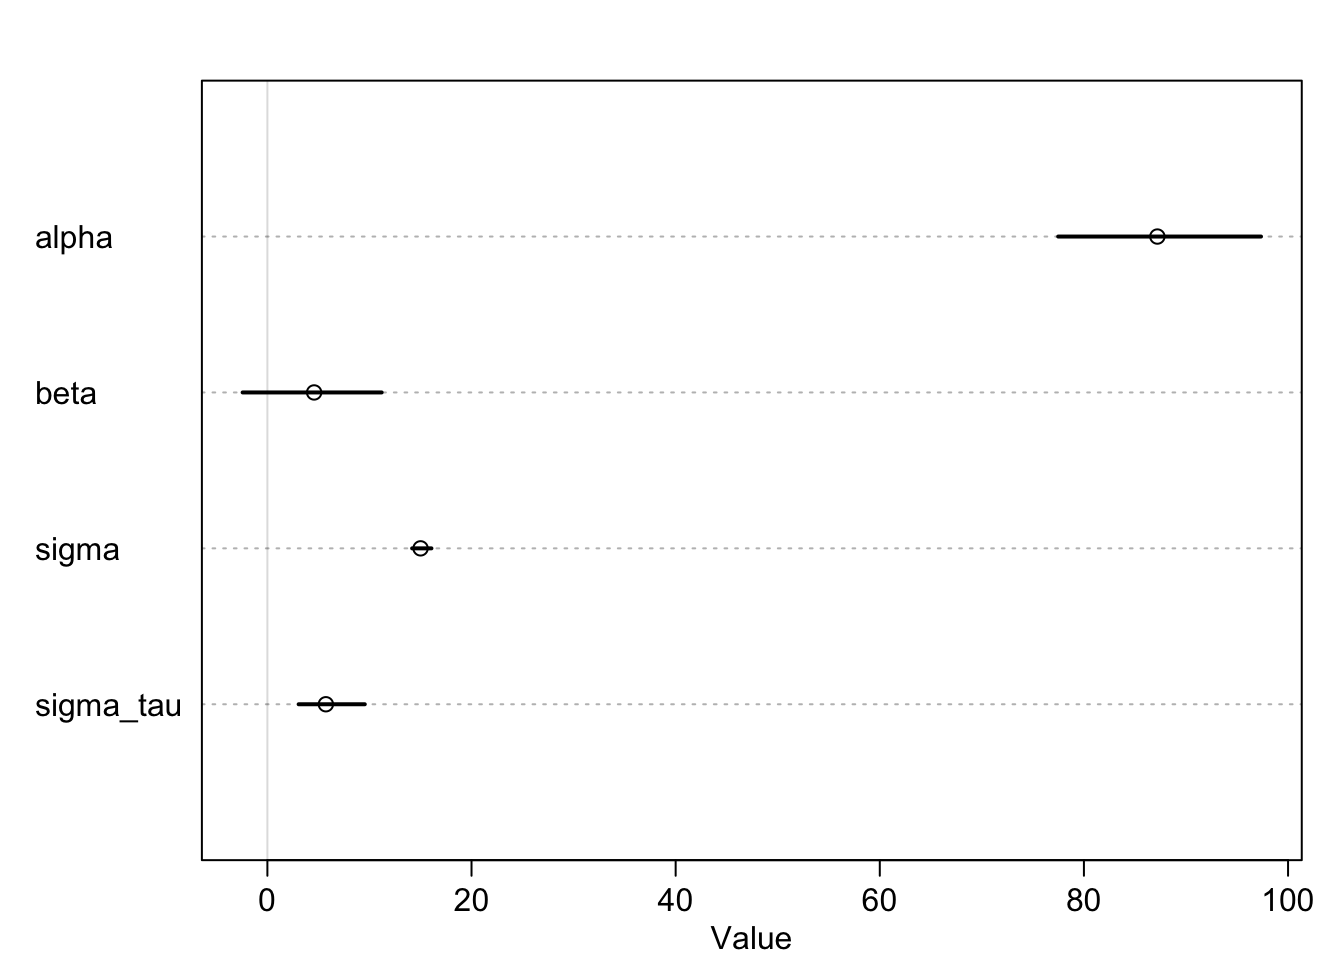
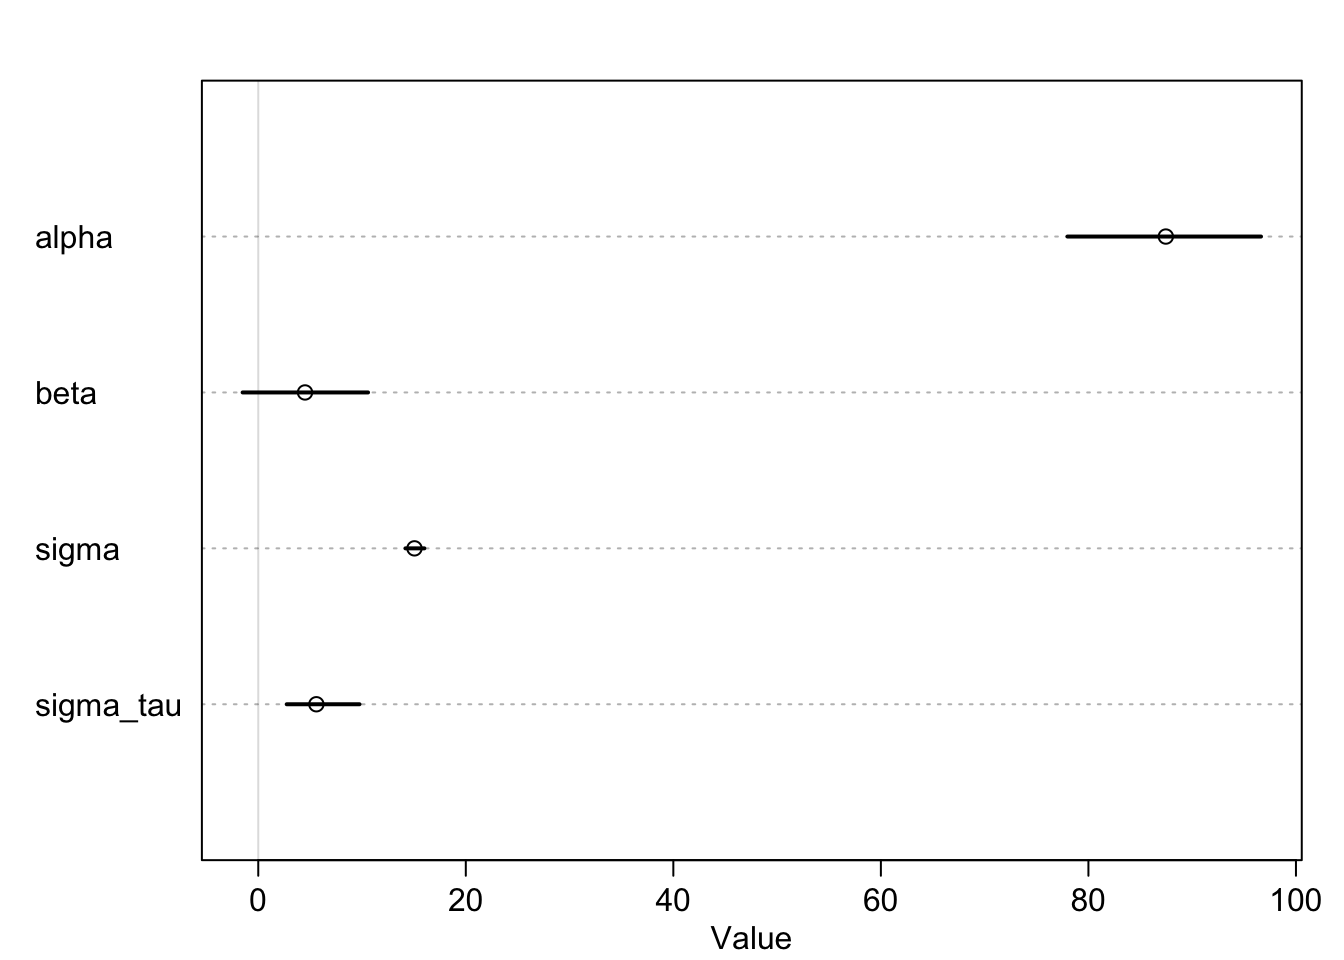
Match `ulam()` `chains` and `iter` param values to those of `brm()`

diff --git a/index.html b/index.html
@@ -417,7 +417,7 @@ window.Quarto = {
 \end{align*}
 \]</span></p>
 <div class="cell">
-<div class="sourceCode cell-code" id="cb9"><pre class="sourceCode r code-with-copy"><code class="sourceCode r"><span id="cb9-1"><a href="#cb9-1" aria-hidden="true" tabindex="-1"></a>fit <span class="ot">&lt;-</span> <span class="fu">ulam</span>(</span>
+<div class="sourceCode cell-code" id="cb9"><pre class="sourceCode r code-with-copy"><code class="sourceCode r"><span id="cb9-1"><a href="#cb9-1" aria-hidden="true" tabindex="-1"></a>fit.ulam <span class="ot">&lt;-</span> <span class="fu">ulam</span>(</span>
 <span id="cb9-2"><a href="#cb9-2" aria-hidden="true" tabindex="-1"></a>  <span class="fu">alist</span>(</span>
 <span id="cb9-3"><a href="#cb9-3" aria-hidden="true" tabindex="-1"></a>    somasize <span class="sc">~</span> <span class="fu">normal</span>(mu, sigma),</span>
 <span id="cb9-4"><a href="#cb9-4" aria-hidden="true" tabindex="-1"></a>    mu <span class="ot">&lt;-</span>  alpha <span class="sc">+</span> beta <span class="sc">*</span> fa <span class="sc">+</span> tau[mouseid],</span>
@@ -426,37 +426,124 @@ window.Quarto = {
 <span id="cb9-7"><a href="#cb9-7" aria-hidden="true" tabindex="-1"></a>    beta <span class="sc">~</span> <span class="fu">normal</span>(<span class="dv">0</span>, <span class="dv">20</span>),</span>
 <span id="cb9-8"><a href="#cb9-8" aria-hidden="true" tabindex="-1"></a>    sigma <span class="sc">~</span> <span class="fu">student_t</span>(<span class="dv">3</span>, <span class="dv">0</span>, <span class="dv">15</span>),</span>
 <span id="cb9-9"><a href="#cb9-9" aria-hidden="true" tabindex="-1"></a>    sigma_tau <span class="sc">~</span> <span class="fu">student_t</span>(<span class="dv">3</span>, <span class="dv">0</span>, <span class="dv">15</span>)),</span>
-<span id="cb9-10"><a href="#cb9-10" aria-hidden="true" tabindex="-1"></a>  <span class="at">data =</span> d)</span></code><button title="Copy to Clipboard" class="code-copy-button"><i class="bi"></i></button></pre></div>
+<span id="cb9-10"><a href="#cb9-10" aria-hidden="true" tabindex="-1"></a>  <span class="at">data =</span> d, <span class="at">chains =</span> <span class="dv">4</span>, <span class="at">cores =</span> <span class="dv">4</span>, <span class="at">iter =</span> <span class="dv">2000</span>)</span></code><button title="Copy to Clipboard" class="code-copy-button"><i class="bi"></i></button></pre></div>
 <div class="cell-output cell-output-stdout">
-<pre><code>Running MCMC with 1 chain, with 1 thread(s) per chain...
+<pre><code>Running MCMC with 4 parallel chains, with 1 thread(s) per chain...
 
-Chain 1 Iteration:   1 / 1000 [  0%]  (Warmup) 
-Chain 1 Iteration: 100 / 1000 [ 10%]  (Warmup) 
-Chain 1 Iteration: 200 / 1000 [ 20%]  (Warmup) 
-Chain 1 Iteration: 300 / 1000 [ 30%]  (Warmup) 
-Chain 1 Iteration: 400 / 1000 [ 40%]  (Warmup) 
-Chain 1 Iteration: 500 / 1000 [ 50%]  (Warmup) 
-Chain 1 Iteration: 501 / 1000 [ 50%]  (Sampling) 
-Chain 1 Iteration: 600 / 1000 [ 60%]  (Sampling) 
-Chain 1 Iteration: 700 / 1000 [ 70%]  (Sampling) 
-Chain 1 Iteration: 800 / 1000 [ 80%]  (Sampling) 
-Chain 1 Iteration: 900 / 1000 [ 90%]  (Sampling) 
-Chain 1 Iteration: 1000 / 1000 [100%]  (Sampling) 
-Chain 1 finished in 0.4 seconds.</code></pre>
+Chain 1 Iteration:    1 / 2000 [  0%]  (Warmup) 
+Chain 1 Iteration:  100 / 2000 [  5%]  (Warmup) 
+Chain 1 Iteration:  200 / 2000 [ 10%]  (Warmup) 
+Chain 1 Iteration:  300 / 2000 [ 15%]  (Warmup) </code></pre>
+</div>
+<div class="cell-output cell-output-stdout">
+<pre><code>Chain 2 Iteration:    1 / 2000 [  0%]  (Warmup) 
+Chain 2 Iteration:  100 / 2000 [  5%]  (Warmup) 
+Chain 2 Iteration:  200 / 2000 [ 10%]  (Warmup) 
+Chain 3 Iteration:    1 / 2000 [  0%]  (Warmup) 
+Chain 3 Iteration:  100 / 2000 [  5%]  (Warmup) 
+Chain 3 Iteration:  200 / 2000 [ 10%]  (Warmup) 
+Chain 3 Iteration:  300 / 2000 [ 15%]  (Warmup) </code></pre>
+</div>
+<div class="cell-output cell-output-stdout">
+<pre><code>Chain 4 Iteration:    1 / 2000 [  0%]  (Warmup) 
+Chain 4 Iteration:  100 / 2000 [  5%]  (Warmup) 
+Chain 4 Iteration:  200 / 2000 [ 10%]  (Warmup) 
+Chain 4 Iteration:  300 / 2000 [ 15%]  (Warmup) 
+Chain 1 Iteration:  400 / 2000 [ 20%]  (Warmup) 
+Chain 1 Iteration:  500 / 2000 [ 25%]  (Warmup) 
+Chain 1 Iteration:  600 / 2000 [ 30%]  (Warmup) 
+Chain 2 Iteration:  300 / 2000 [ 15%]  (Warmup) 
+Chain 2 Iteration:  400 / 2000 [ 20%]  (Warmup) 
+Chain 2 Iteration:  500 / 2000 [ 25%]  (Warmup) 
+Chain 2 Iteration:  600 / 2000 [ 30%]  (Warmup) 
+Chain 3 Iteration:  400 / 2000 [ 20%]  (Warmup) 
+Chain 3 Iteration:  500 / 2000 [ 25%]  (Warmup) 
+Chain 3 Iteration:  600 / 2000 [ 30%]  (Warmup) 
+Chain 4 Iteration:  400 / 2000 [ 20%]  (Warmup) 
+Chain 4 Iteration:  500 / 2000 [ 25%]  (Warmup) 
+Chain 4 Iteration:  600 / 2000 [ 30%]  (Warmup) 
+Chain 1 Iteration:  700 / 2000 [ 35%]  (Warmup) 
+Chain 1 Iteration:  800 / 2000 [ 40%]  (Warmup) 
+Chain 1 Iteration:  900 / 2000 [ 45%]  (Warmup) 
+Chain 2 Iteration:  700 / 2000 [ 35%]  (Warmup) 
+Chain 2 Iteration:  800 / 2000 [ 40%]  (Warmup) 
+Chain 2 Iteration:  900 / 2000 [ 45%]  (Warmup) 
+Chain 3 Iteration:  700 / 2000 [ 35%]  (Warmup) 
+Chain 3 Iteration:  800 / 2000 [ 40%]  (Warmup) 
+Chain 3 Iteration:  900 / 2000 [ 45%]  (Warmup) 
+Chain 4 Iteration:  700 / 2000 [ 35%]  (Warmup) 
+Chain 4 Iteration:  800 / 2000 [ 40%]  (Warmup) 
+Chain 4 Iteration:  900 / 2000 [ 45%]  (Warmup) 
+Chain 4 Iteration: 1000 / 2000 [ 50%]  (Warmup) 
+Chain 4 Iteration: 1001 / 2000 [ 50%]  (Sampling) 
+Chain 1 Iteration: 1000 / 2000 [ 50%]  (Warmup) 
+Chain 1 Iteration: 1001 / 2000 [ 50%]  (Sampling) 
+Chain 1 Iteration: 1100 / 2000 [ 55%]  (Sampling) 
+Chain 1 Iteration: 1200 / 2000 [ 60%]  (Sampling) 
+Chain 2 Iteration: 1000 / 2000 [ 50%]  (Warmup) 
+Chain 2 Iteration: 1001 / 2000 [ 50%]  (Sampling) 
+Chain 2 Iteration: 1100 / 2000 [ 55%]  (Sampling) 
+Chain 2 Iteration: 1200 / 2000 [ 60%]  (Sampling) 
+Chain 3 Iteration: 1000 / 2000 [ 50%]  (Warmup) 
+Chain 3 Iteration: 1001 / 2000 [ 50%]  (Sampling) 
+Chain 3 Iteration: 1100 / 2000 [ 55%]  (Sampling) 
+Chain 3 Iteration: 1200 / 2000 [ 60%]  (Sampling) 
+Chain 4 Iteration: 1100 / 2000 [ 55%]  (Sampling) 
+Chain 4 Iteration: 1200 / 2000 [ 60%]  (Sampling) 
+Chain 4 Iteration: 1300 / 2000 [ 65%]  (Sampling) 
+Chain 1 Iteration: 1300 / 2000 [ 65%]  (Sampling) 
+Chain 1 Iteration: 1400 / 2000 [ 70%]  (Sampling) 
+Chain 1 Iteration: 1500 / 2000 [ 75%]  (Sampling) 
+Chain 2 Iteration: 1300 / 2000 [ 65%]  (Sampling) 
+Chain 2 Iteration: 1400 / 2000 [ 70%]  (Sampling) 
+Chain 2 Iteration: 1500 / 2000 [ 75%]  (Sampling) 
+Chain 3 Iteration: 1300 / 2000 [ 65%]  (Sampling) 
+Chain 3 Iteration: 1400 / 2000 [ 70%]  (Sampling) 
+Chain 3 Iteration: 1500 / 2000 [ 75%]  (Sampling) 
+Chain 4 Iteration: 1400 / 2000 [ 70%]  (Sampling) 
+Chain 4 Iteration: 1500 / 2000 [ 75%]  (Sampling) 
+Chain 4 Iteration: 1600 / 2000 [ 80%]  (Sampling) 
+Chain 1 Iteration: 1600 / 2000 [ 80%]  (Sampling) 
+Chain 1 Iteration: 1700 / 2000 [ 85%]  (Sampling) 
+Chain 1 Iteration: 1800 / 2000 [ 90%]  (Sampling) 
+Chain 2 Iteration: 1600 / 2000 [ 80%]  (Sampling) 
+Chain 2 Iteration: 1700 / 2000 [ 85%]  (Sampling) 
+Chain 2 Iteration: 1800 / 2000 [ 90%]  (Sampling) 
+Chain 3 Iteration: 1600 / 2000 [ 80%]  (Sampling) 
+Chain 3 Iteration: 1700 / 2000 [ 85%]  (Sampling) 
+Chain 3 Iteration: 1800 / 2000 [ 90%]  (Sampling) 
+Chain 4 Iteration: 1700 / 2000 [ 85%]  (Sampling) 
+Chain 4 Iteration: 1800 / 2000 [ 90%]  (Sampling) 
+Chain 4 Iteration: 1900 / 2000 [ 95%]  (Sampling) 
+Chain 1 Iteration: 1900 / 2000 [ 95%]  (Sampling) 
+Chain 1 Iteration: 2000 / 2000 [100%]  (Sampling) 
+Chain 2 Iteration: 1900 / 2000 [ 95%]  (Sampling) 
+Chain 2 Iteration: 2000 / 2000 [100%]  (Sampling) 
+Chain 3 Iteration: 1900 / 2000 [ 95%]  (Sampling) 
+Chain 3 Iteration: 2000 / 2000 [100%]  (Sampling) 
+Chain 4 Iteration: 2000 / 2000 [100%]  (Sampling) 
+Chain 1 finished in 0.7 seconds.
+Chain 2 finished in 0.7 seconds.
+Chain 3 finished in 0.7 seconds.
+Chain 4 finished in 0.7 seconds.
+
+All 4 chains finished successfully.
+Mean chain execution time: 0.7 seconds.
+Total execution time: 0.8 seconds.</code></pre>
 </div>
 </div>
 <div class="cell">
-<div class="sourceCode cell-code" id="cb11"><pre class="sourceCode r code-with-copy"><code class="sourceCode r"><span id="cb11-1"><a href="#cb11-1" aria-hidden="true" tabindex="-1"></a><span class="fu">precis</span>(fit)</span></code><button title="Copy to Clipboard" class="code-copy-button"><i class="bi"></i></button></pre></div>
+<div class="sourceCode cell-code" id="cb13"><pre class="sourceCode r code-with-copy"><code class="sourceCode r"><span id="cb13-1"><a href="#cb13-1" aria-hidden="true" tabindex="-1"></a><span class="fu">precis</span>(fit.ulam)</span></code><button title="Copy to Clipboard" class="code-copy-button"><i class="bi"></i></button></pre></div>
 <div class="cell-output-display">
 <div data-pagedtable="false">
   <script data-pagedtable-source="" type="application/json">
-{"columns":[{"label":[""],"name":["_rn_"],"type":[""],"align":["left"]},{"label":["mean"],"name":[1],"type":["dbl"],"align":["right"]},{"label":["sd"],"name":[2],"type":["dbl"],"align":["right"]},{"label":["5.5%"],"name":[3],"type":["dbl"],"align":["right"]},{"label":["94.5%"],"name":[4],"type":["dbl"],"align":["right"]},{"label":["rhat"],"name":[5],"type":["dbl"],"align":["right"]},{"label":["ess_bulk"],"name":[6],"type":["dbl"],"align":["right"]}],"data":[{"1":"87.20","2":"6.2737","3":"77.478","4":"97.352","5":"1.027","6":"126.2","_rn_":"alpha"},{"1":"4.58","2":"4.0855","3":"-2.427","4":"11.195","5":"1.026","6":"117.3","_rn_":"beta"},{"1":"15.01","2":"0.5856","3":"14.179","4":"16.073","5":"1.002","6":"250.8","_rn_":"sigma"},{"1":"5.73","2":"2.2720","3":"3.062","4":"9.544","5":"1.003","6":"102.6","_rn_":"sigma_tau"}],"options":{"columns":{"min":{},"max":[10]},"rows":{"min":[10],"max":[10]},"pages":{}}}
+{"columns":[{"label":[""],"name":["_rn_"],"type":[""],"align":["left"]},{"label":["mean"],"name":[1],"type":["dbl"],"align":["right"]},{"label":["sd"],"name":[2],"type":["dbl"],"align":["right"]},{"label":["5.5%"],"name":[3],"type":["dbl"],"align":["right"]},{"label":["94.5%"],"name":[4],"type":["dbl"],"align":["right"]},{"label":["rhat"],"name":[5],"type":["dbl"],"align":["right"]},{"label":["ess_bulk"],"name":[6],"type":["dbl"],"align":["right"]}],"data":[{"1":"87.459","2":"5.9305","3":"77.981","4":"96.634","5":"1.002","6":"1135.9","_rn_":"alpha"},{"1":"4.507","2":"3.7871","3":"-1.507","4":"10.581","5":"1.004","6":"1132.3","_rn_":"beta"},{"1":"15.053","2":"0.5677","3":"14.183","4":"16.009","5":"1.003","6":"1964.0","_rn_":"sigma"},{"1":"5.600","2":"2.3134","3":"2.740","4":"9.756","5":"1.007","6":"804.1","_rn_":"sigma_tau"}],"options":{"columns":{"min":{},"max":[10]},"rows":{"min":[10],"max":[10]},"pages":{}}}
   </script>
 </div>
 </div>
 </div>
 <div class="cell">
-<div class="sourceCode cell-code" id="cb12"><pre class="sourceCode r code-with-copy"><code class="sourceCode r"><span id="cb12-1"><a href="#cb12-1" aria-hidden="true" tabindex="-1"></a><span class="fu">plot</span>(fit)</span></code><button title="Copy to Clipboard" class="code-copy-button"><i class="bi"></i></button></pre></div>
+<div class="sourceCode cell-code" id="cb14"><pre class="sourceCode r code-with-copy"><code class="sourceCode r"><span id="cb14-1"><a href="#cb14-1" aria-hidden="true" tabindex="-1"></a><span class="fu">plot</span>(fit.ulam)</span></code><button title="Copy to Clipboard" class="code-copy-button"><i class="bi"></i></button></pre></div>
 <div class="cell-output-display">
 <div>
 <figure class="figure">
@@ -466,10 +553,10 @@ Chain 1 finished in 0.4 seconds.</code></pre>
 </div>
 </div>
 <div class="cell">
-<div class="sourceCode cell-code" id="cb13"><pre class="sourceCode r code-with-copy"><code class="sourceCode r"><span id="cb13-1"><a href="#cb13-1" aria-hidden="true" tabindex="-1"></a>fit2 <span class="ot">&lt;-</span> <span class="fu">brm</span>(somasize <span class="sc">~</span> fa <span class="sc">+</span> (<span class="dv">1</span> <span class="sc">|</span> mouseid), <span class="at">data =</span> d)</span></code><button title="Copy to Clipboard" class="code-copy-button"><i class="bi"></i></button></pre></div>
+<div class="sourceCode cell-code" id="cb15"><pre class="sourceCode r code-with-copy"><code class="sourceCode r"><span id="cb15-1"><a href="#cb15-1" aria-hidden="true" tabindex="-1"></a>fit.brm <span class="ot">&lt;-</span> <span class="fu">brm</span>(somasize <span class="sc">~</span> fa <span class="sc">+</span> (<span class="dv">1</span> <span class="sc">|</span> mouseid), <span class="at">data =</span> d)</span></code><button title="Copy to Clipboard" class="code-copy-button"><i class="bi"></i></button></pre></div>
 </div>
 <div class="cell">
-<div class="sourceCode cell-code" id="cb14"><pre class="sourceCode r code-with-copy"><code class="sourceCode r"><span id="cb14-1"><a href="#cb14-1" aria-hidden="true" tabindex="-1"></a><span class="fu">plot</span>(fit2)</span></code><button title="Copy to Clipboard" class="code-copy-button"><i class="bi"></i></button></pre></div>
+<div class="sourceCode cell-code" id="cb16"><pre class="sourceCode r code-with-copy"><code class="sourceCode r"><span id="cb16-1"><a href="#cb16-1" aria-hidden="true" tabindex="-1"></a><span class="fu">plot</span>(fit.brm)</span></code><button title="Copy to Clipboard" class="code-copy-button"><i class="bi"></i></button></pre></div>
 <div class="cell-output-display">
 <div>
 <figure class="figure">
@@ -483,7 +570,7 @@ Chain 1 finished in 0.4 seconds.</code></pre>
 <section id="print-environment" class="level2">
 <h2 class="anchored" data-anchor-id="print-environment">Print environment</h2>
 <div class="cell">
-<div class="sourceCode cell-code" id="cb15"><pre class="sourceCode r code-with-copy"><code class="sourceCode r"><span id="cb15-1"><a href="#cb15-1" aria-hidden="true" tabindex="-1"></a>sessioninfo<span class="sc">::</span><span class="fu">session_info</span>()</span></code><button title="Copy to Clipboard" class="code-copy-button"><i class="bi"></i></button></pre></div>
+<div class="sourceCode cell-code" id="cb17"><pre class="sourceCode r code-with-copy"><code class="sourceCode r"><span id="cb17-1"><a href="#cb17-1" aria-hidden="true" tabindex="-1"></a>sessioninfo<span class="sc">::</span><span class="fu">session_info</span>()</span></code><button title="Copy to Clipboard" class="code-copy-button"><i class="bi"></i></button></pre></div>
 <div class="cell-output cell-output-stdout">
 <pre><code>─ Session info ───────────────────────────────────────────────────────────────
  setting  value
